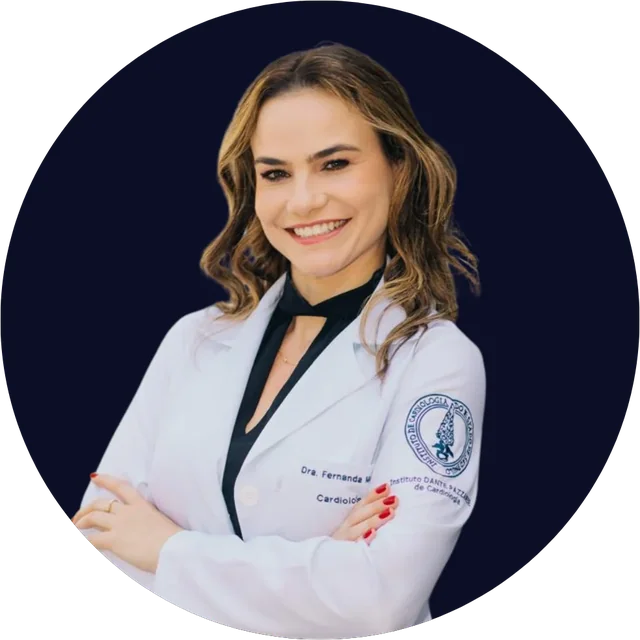
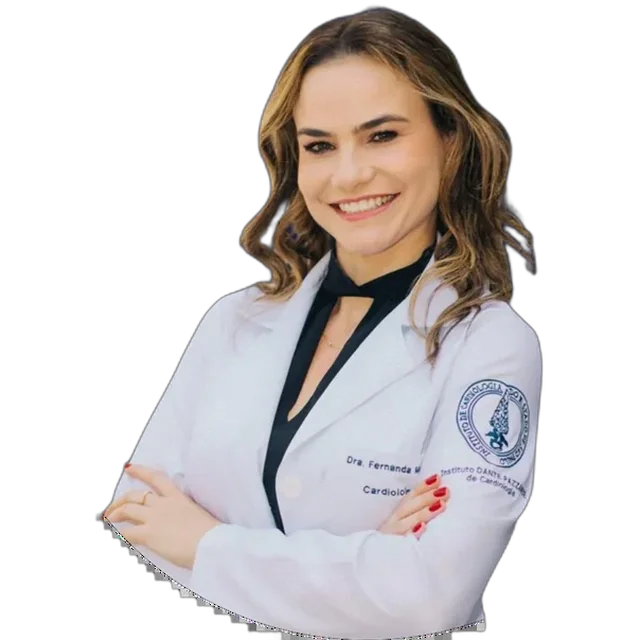
Unify doctor photo backgrounds, remove Dr. Flávio Souza
- Juliana and Fernanda had a navy circle baked into their photos
  while the rest used a plain white studio background; Arthur and
  Flávia had full lifestyle-photo backgrounds. Cut all four out with
  background removal so every doctor photo now sits on the same
  transparent/white ground, matching the rest of the team.
- Removed Dr. Flávio Souza (Nefrologia) from the Especialidades
  Integradas section per request; adjusted that section's intro copy
  and grid to two columns now that it's just Endocrinologia and
  Neurologia.

diff --git a/instituto-cardiologia-sorriso/index.html b/instituto-cardiologia-sorriso/index.html
@@ -284,28 +284,19 @@
         <p class="eyebrow">Equipe Multidisciplinar</p>
         <h2>O coração não adoece sozinho</h2>
         <p class="section-sub">
-          Quem tem diabetes sabe que o coração está em risco. Quem tem doença renal crônica
-          sabe que o coração paga essa conta. Quem teve um AVC muitas vezes descobriu depois
-          que o coração tinha algo a ver com isso. A cardiologia de verdade leva essas
-          conexões a sério, e o ICS construiu seu time exatamente com essa visão.
+          Quem tem diabetes sabe que o coração está em risco. Quem teve um AVC muitas vezes
+          descobriu depois que o coração tinha algo a ver com isso. A cardiologia de verdade
+          leva essas conexões a sério, e o ICS construiu seu time exatamente com essa visão.
         </p>
       </div>
 
-      <div class="grid grid-3">
+      <div class="grid grid-2">
         <div class="doctor-card">
           <img class="doctor-photo" src="assets/equipe/juliana-souza-pires.webp" width="140" height="140" loading="lazy" alt="Dra. Juliana Souza Pires">
           <div class="doctor-name">Dra. Juliana Souza Pires</div>
           <div class="doctor-reg">CRM-MT 14308 · RQE 6914</div>
           <p class="doctor-specialty">Endocrinologia</p>
           <p>Diabetes e dislipidemias estão entre as condições que mais aceleram o risco de infarto e AVC. O acompanhamento endocrinológico dentro da mesma equipe permite que o controle metabólico e o tratamento cardiológico andem juntos — com comunicação direta entre os especialistas, sem que o paciente precise fazer essa ponte sozinho.</p>
-        </div>
-
-        <div class="doctor-card">
-          <span class="doctor-photo-placeholder" aria-hidden="true">FS</span>
-          <div class="doctor-name">Dr. Flávio Souza</div>
-          <div class="doctor-reg">Nefrologia</div>
-          <p class="doctor-specialty">Nefrologia</p>
-          <p>O rim e o coração têm uma relação tão próxima que a medicina chama de síndrome cardiorrenal quando um começa a afetar o outro. Pacientes com doença renal crônica têm risco cardiovascular significativamente elevado, e o acompanhamento nefrológico integrado ao Heart Team muda a qualidade das decisões clínicas.</p>
         </div>
 
         <div class="doctor-card">
